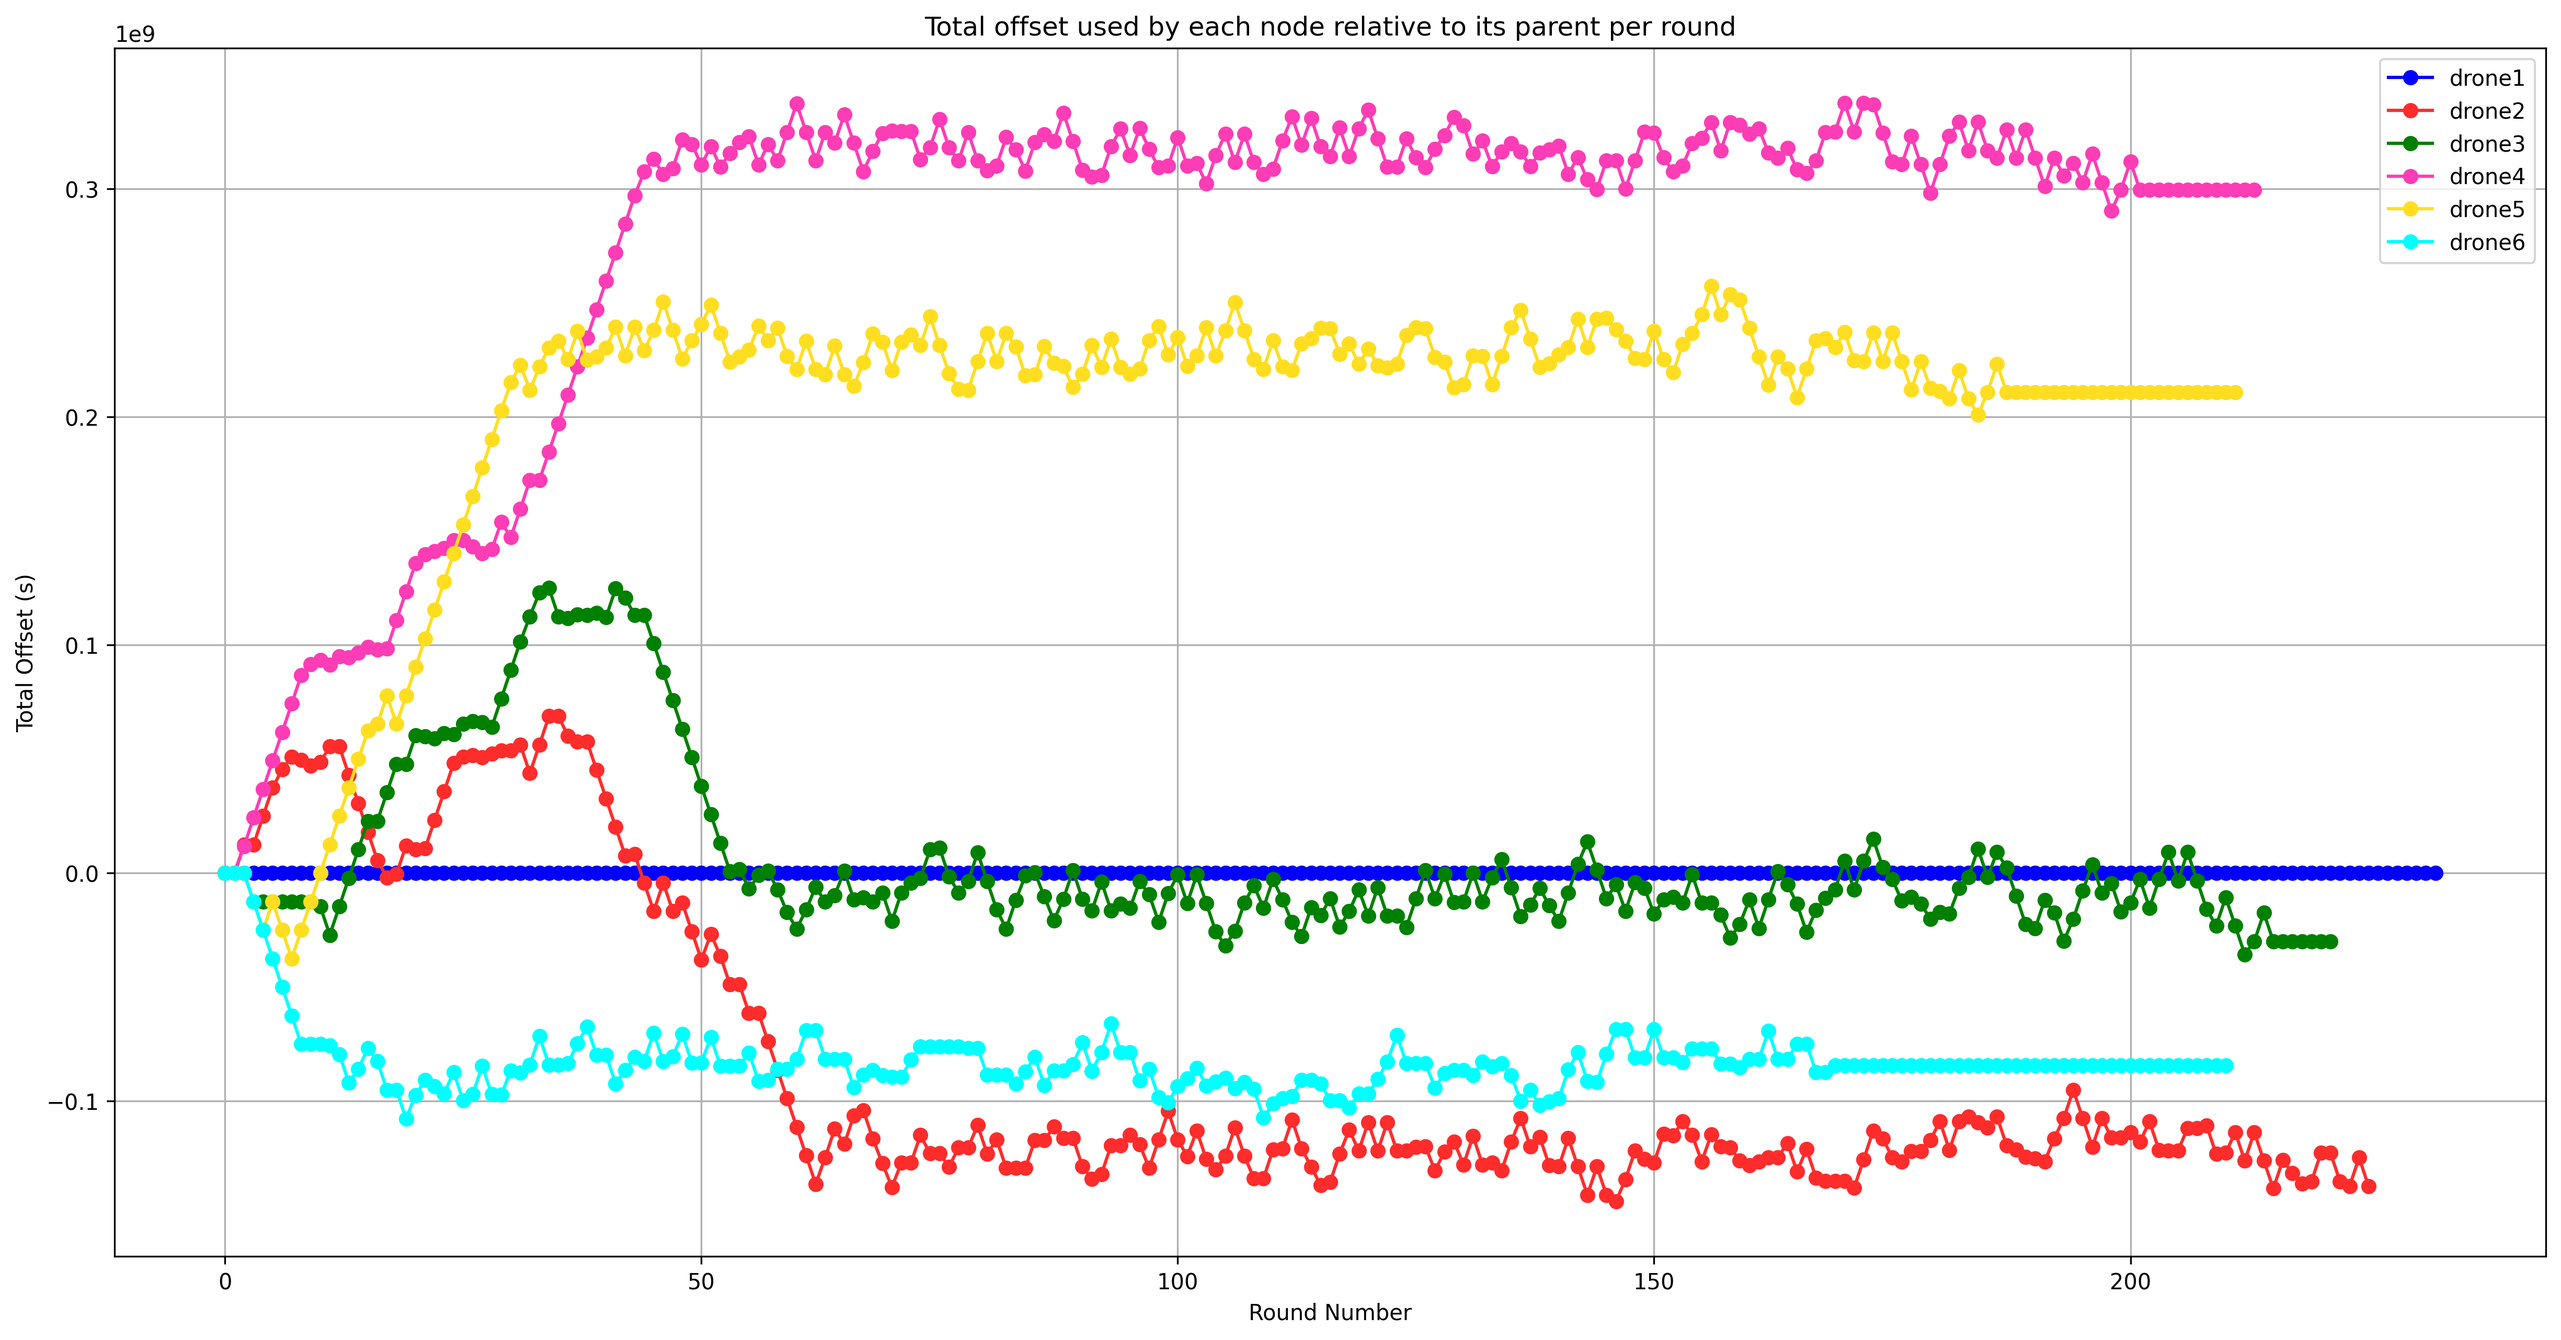
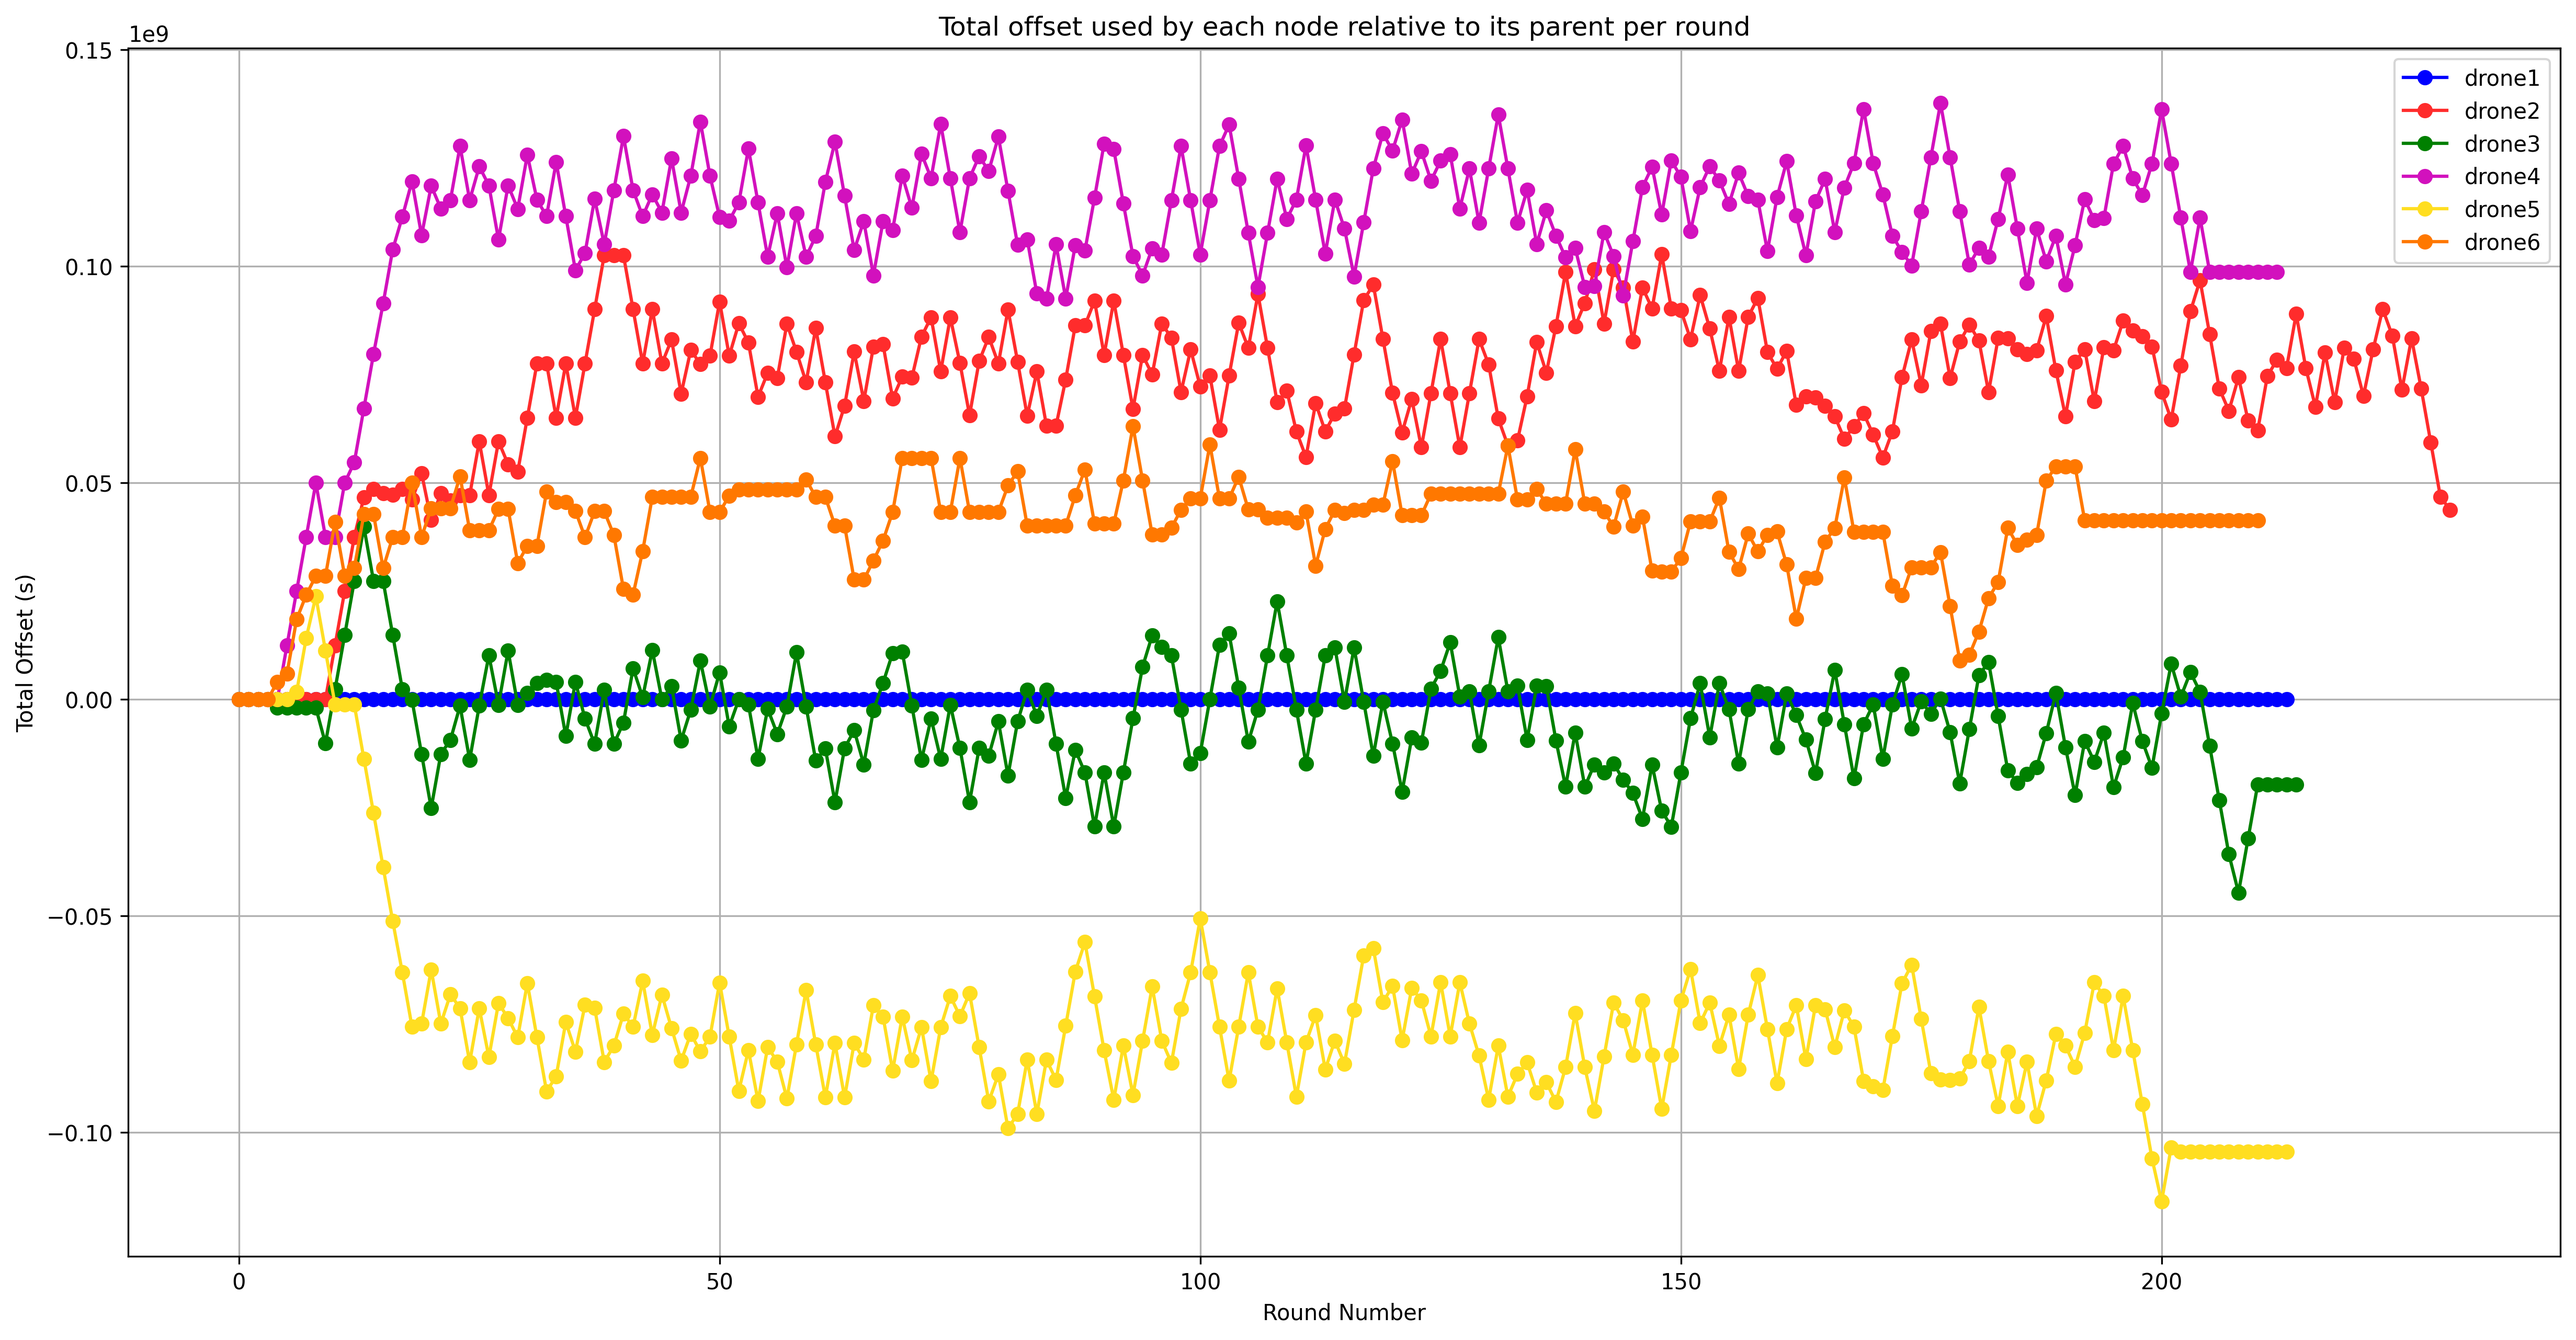
New charts and colors

diff --git a/docs/logs/processTrace.py b/docs/logs/processTrace.py
@@ -25,9 +25,9 @@ node_wlan_sa = ['d8:3a:dd:34:b7:cd',
 node_colors = ['#0000ff', 
                '#ff2c2c',
                '#008000', 
-               '#fd3db5', 
+               '#d211bd', 
                '#ffde21', 
-               '#00ffff']
+               '#ff7800']
 
 tdma_round_len_ms = 300
 offset = 35
@@ -340,6 +340,9 @@ def tdma_count_packet(me, relative_timestamp_ms, packet):
     if node1_first_packet_ms == None and me == DRONE_1_ID:
         node1_first_packet_ms = relative_timestamp_ms
 
+    if(node1_first_packet_ms == None and me != DRONE_1_ID):
+        return
+
     #If packet is received within tdma_round_len of Node 1, then count it
     if relative_timestamp_ms - node1_first_packet_ms <= tdma_round_len_ms:
 
@@ -419,25 +422,31 @@ def csma_network_throughput(csma_path):
     for file in file_list:
          
         #Ignore throughput from drone1
-        if 'throughput' in file and '1' not in file:
+        if 'throughput' in file:
             f = open(csma_path + '/' + file, "r")
             values = list()
-            files.append(file)
 
-            for l in f:
-                if 'sec' in l and '%' not in l:
-                    
-                    matches = re.findall(pattern, l)
-                    
-                    converted_value = 0
+            first_line = f.readline()    
 
-                    if len(matches) != 0:
-                        (value, unit) = matches[0] #(data, unit) tuple
-                        converted_value = convert_to_bytes(value, unit)
+            if 'None' not in first_line:
+                
+                files.append(file)
+
+                for l in f:
+
+                    if 'sec' in l and '%' not in l:
+
+                        matches = re.findall(pattern, l)
                         
-                    values.append(converted_value)
+                        converted_value = 0
 
-            node_data[file] = values
+                        if len(matches) != 0:
+                            (value, unit) = matches[0] #(data, unit) tuple
+                            converted_value = convert_to_bytes(value, unit)
+                            
+                        values.append(converted_value)
+
+                node_data[file] = values
             
     csma_x = list()
     csma_y = list()
@@ -461,12 +470,12 @@ def compare_throughput(tdma_path, csma_path):
     
     #These functions should simply return a tuple with x and y data for the plots
     (tdma_x, tdma_y) = tdma_network_throughput(tdma_path)
-    (csma_x, csma_y) = csma_network_throughput(csma_path)
+    #(csma_x, csma_y) = csma_network_throughput(csma_path)
 
     plt.figure(figsize=(15,10))
     plt.clf()
     plt.plot(tdma_x, tdma_y, marker='o', linestyle='-', color="red", label = "TDMA Throughput")
-    plt.plot(csma_x[1:-1], csma_y[1:-1], marker='o', linestyle='-', color="blue", label = "CSMA Throughput")
+    #plt.plot(csma_x[1:-1], csma_y[1:-1], marker='o', linestyle='-', color="blue", label = "CSMA Throughput")
 
     plt.legend()
     plt.grid()
@@ -481,7 +490,7 @@ if __name__ == '__main__':
 
     #process_pcap('./' + TEST_NAME +'/' + TEST_TYPE + '/' + TRACE_NAME)
 
-    compute_position('./' + TEST_NAME +'/' + TEST_TYPE + '/' + TRACE_NAME)
+    #compute_position('./' + TEST_NAME +'/' + TEST_TYPE + '/' + TRACE_NAME)
 
     compare_throughput('./' + TEST_NAME +'/' + TEST_TYPE + '/' + TRACE_NAME, './' + TEST_NAME +'/csma')
 

diff --git a/docs/logs/generateReport.py b/docs/logs/generateReport.py
@@ -20,9 +20,9 @@ CONSIDER_DELAYS_FLAG = False
 node_colors = ['#0000ff', 
                '#ff2c2c',
                '#008000', 
-               '#fd3db5', 
+               '#d211bd', 
                '#ffde21', 
-               '#00ffff']
+               '#ff7800']
 
 def read_data(node_name):
 

diff --git a/docs/logs/generateCharts.py b/docs/logs/generateCharts.py
@@ -35,7 +35,7 @@ pattern = r'\b\d+(?:\.\d+)?\s*(?:bits|Kbits|Mbits)\/sec\b'
 alpha = 0.05
 
 # Node Colors
-node_colors = ['#0000ff', '#ff2c2c','#008000', '#fd3db5', '#ffde21', '#00ffff']
+node_colors = ['#0000ff', '#ff2c2c','#008000', '#d211bd', '#ffde21', '#ff7800']
 
 def format_key(key):
 
